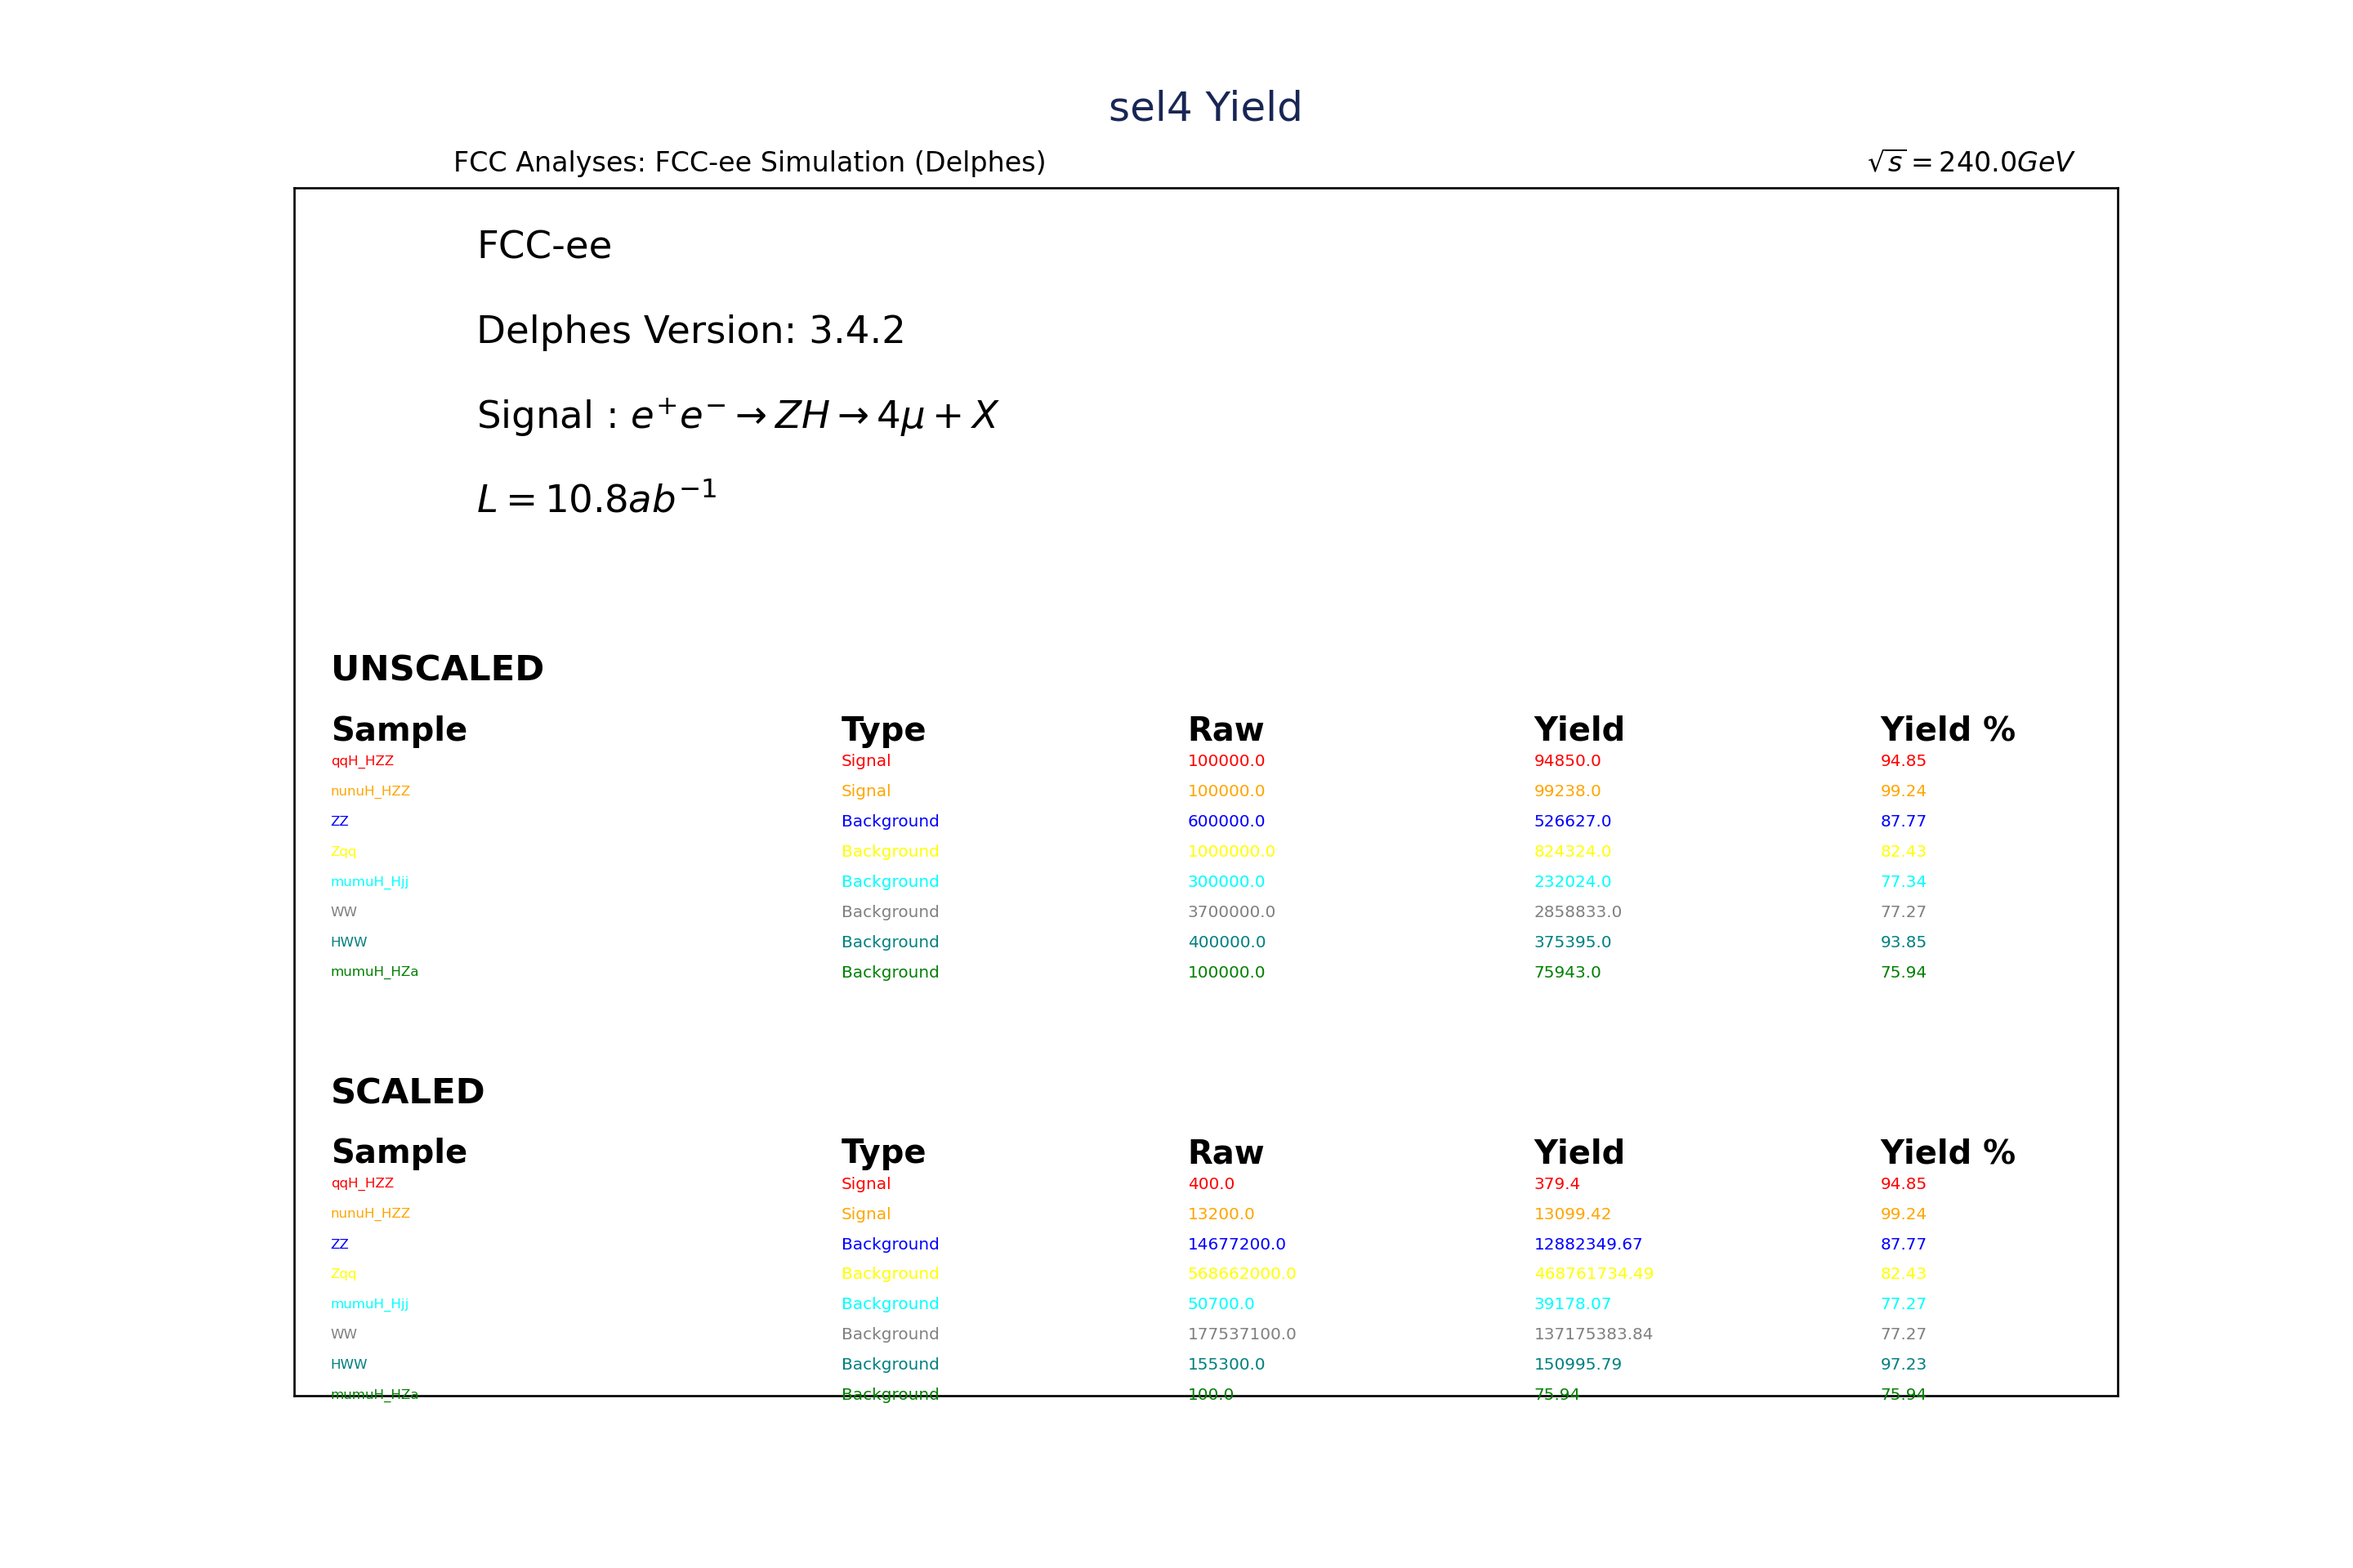
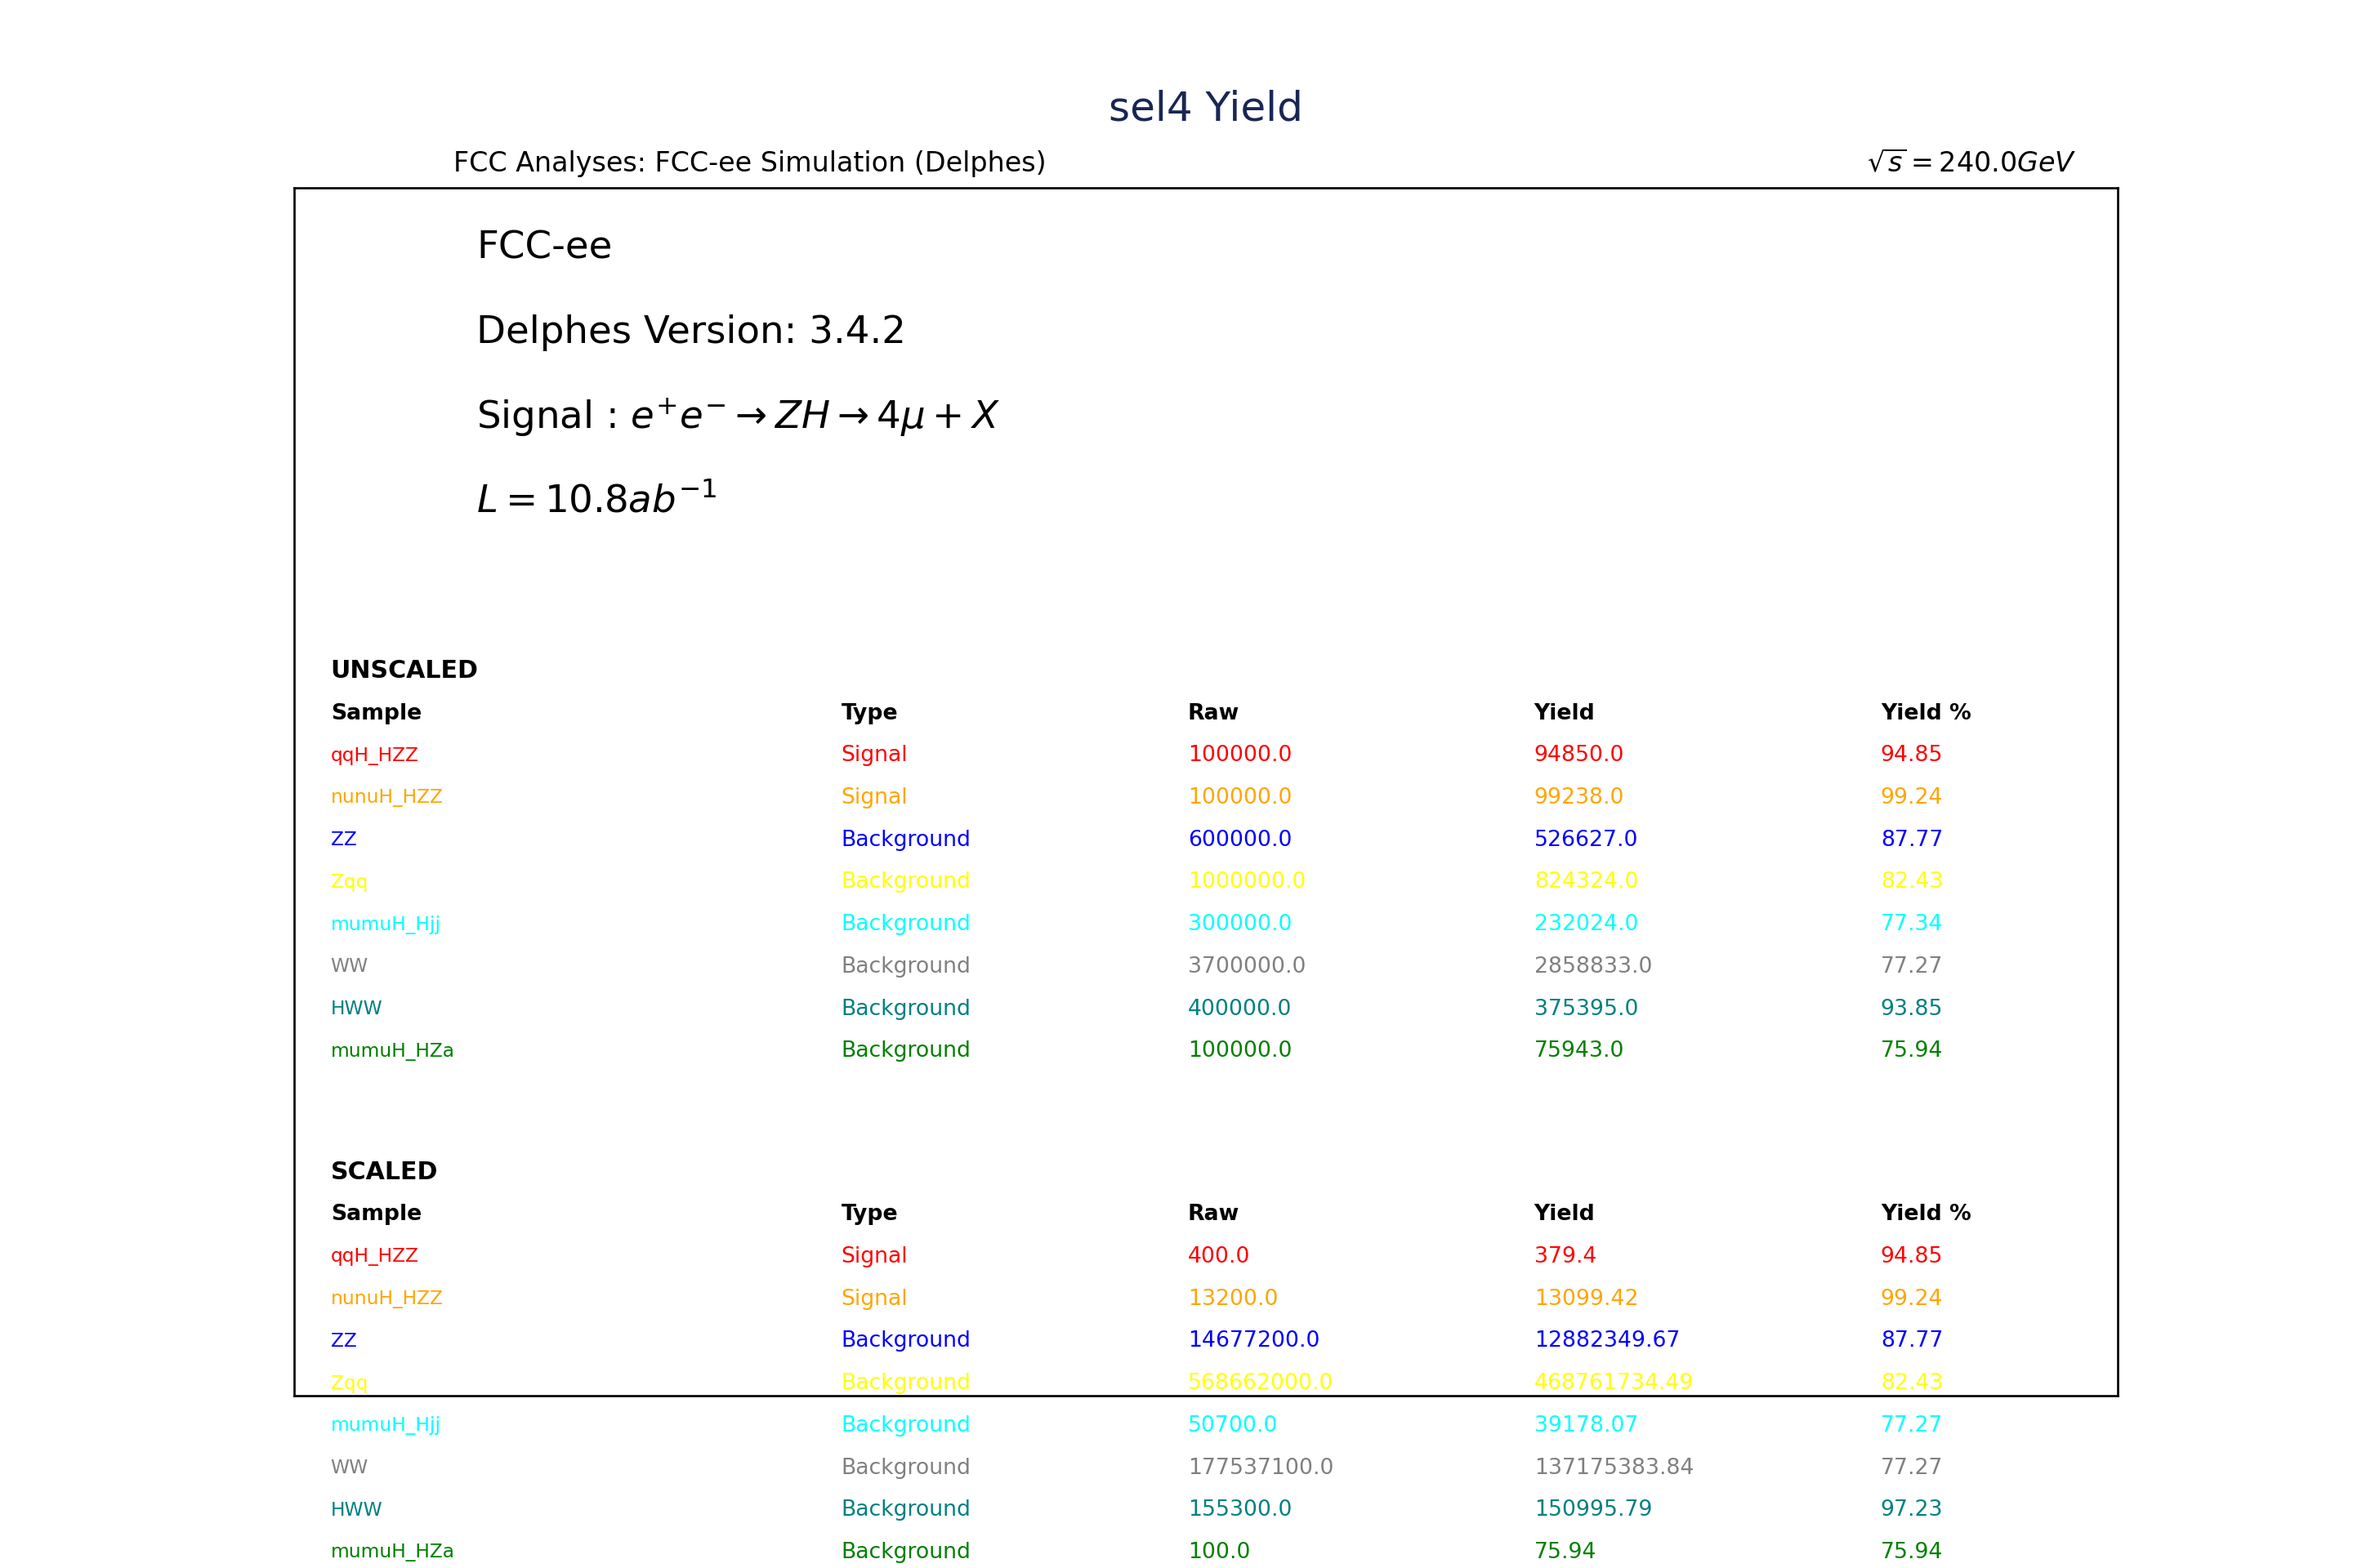
Decreased font size in the yeild plots

diff --git a/examples/FCCee/higgs/4leptons/plotter.py b/examples/FCCee/higgs/4leptons/plotter.py
@@ -82,16 +82,16 @@ def yield_plot(name, title, keys, scaled, unscaled, formats, path, plot_width=8,
     ax.text(0.10, 0.81, 'Signal : $'+ana_tex+'$', fontsize=14, horizontalalignment='left', verticalalignment='center', transform=ax.transAxes)
     ax.text(0.10, 0.74, '$L = '+str(intLumi/1e6)+' ab^{-1}$', fontsize=14, horizontalalignment='left', verticalalignment='center', transform=ax.transAxes)
 
+    table_scale = 0.7
     level, linespacing = 0.60, 0.05
-    table_scale = 0.5
     for scale,obs in zip(['UNSCALED','SCALED'],[unscaled,scaled]):
-        ax.text(0.02, level, scale, weight='bold', fontsize=13, horizontalalignment='left', verticalalignment='center', transform=ax.transAxes)
-        level -= linespacing
-        ax.text(0.02, level, 'Sample', weight='bold', fontsize=12, horizontalalignment='left', verticalalignment='center', transform=ax.transAxes)
-        ax.text(0.30, level, 'Type', weight='bold', fontsize=12, horizontalalignment='left', verticalalignment='center', transform=ax.transAxes)
-        ax.text(0.49, level, 'Raw', weight='bold', fontsize=12, horizontalalignment='left', verticalalignment='center', transform=ax.transAxes)
-        ax.text(0.68, level, 'Yield', weight='bold', fontsize=12, horizontalalignment='left', verticalalignment='center', transform=ax.transAxes)
-        ax.text(0.87, level, 'Yield %', weight='bold', fontsize=12, horizontalalignment='left', verticalalignment='center', transform=ax.transAxes)
+        ax.text(0.02, level, scale, weight='bold', fontsize=int(13*table_scale), horizontalalignment='left', verticalalignment='center', transform=ax.transAxes)
+        level -= linespacing*table_scale
+        ax.text(0.02, level, 'Sample', weight='bold', fontsize=int(12*table_scale), horizontalalignment='left', verticalalignment='center', transform=ax.transAxes)
+        ax.text(0.30, level, 'Type', weight='bold', fontsize=int(12*table_scale), horizontalalignment='left', verticalalignment='center', transform=ax.transAxes)
+        ax.text(0.49, level, 'Raw', weight='bold', fontsize=int(12*table_scale), horizontalalignment='left', verticalalignment='center', transform=ax.transAxes)
+        ax.text(0.68, level, 'Yield', weight='bold', fontsize=int(12*table_scale), horizontalalignment='left', verticalalignment='center', transform=ax.transAxes)
+        ax.text(0.87, level, 'Yield %', weight='bold', fontsize=int(12*table_scale), horizontalalignment='left', verticalalignment='center', transform=ax.transAxes)
         for i in range(len(keys)):
             datasets = req_hists[list(keys)[i]]['datasets']
             Type = req_hists[list(keys)[i]]['type']
